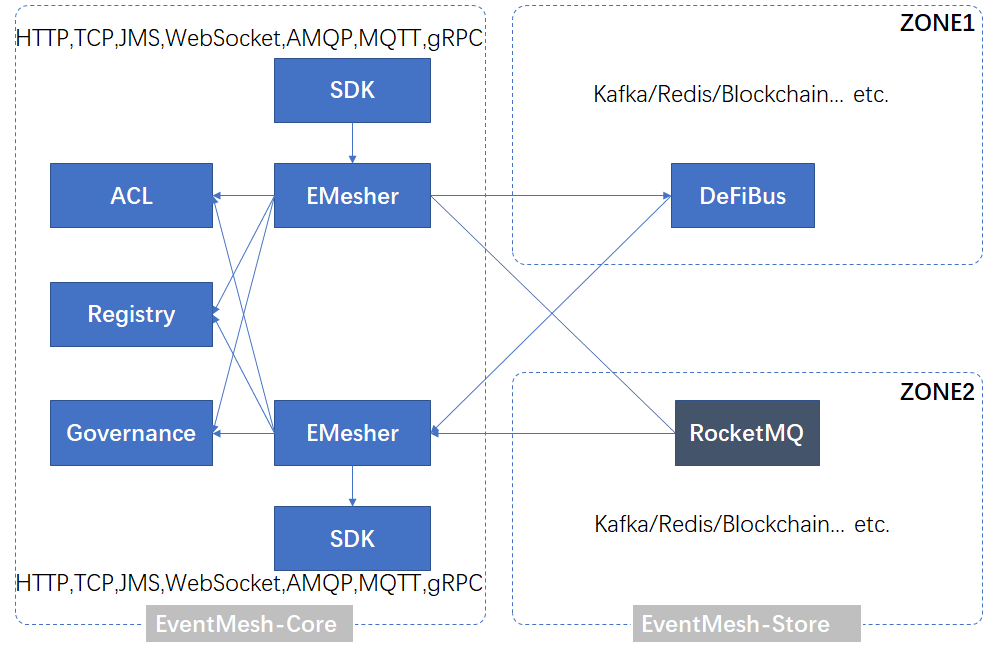
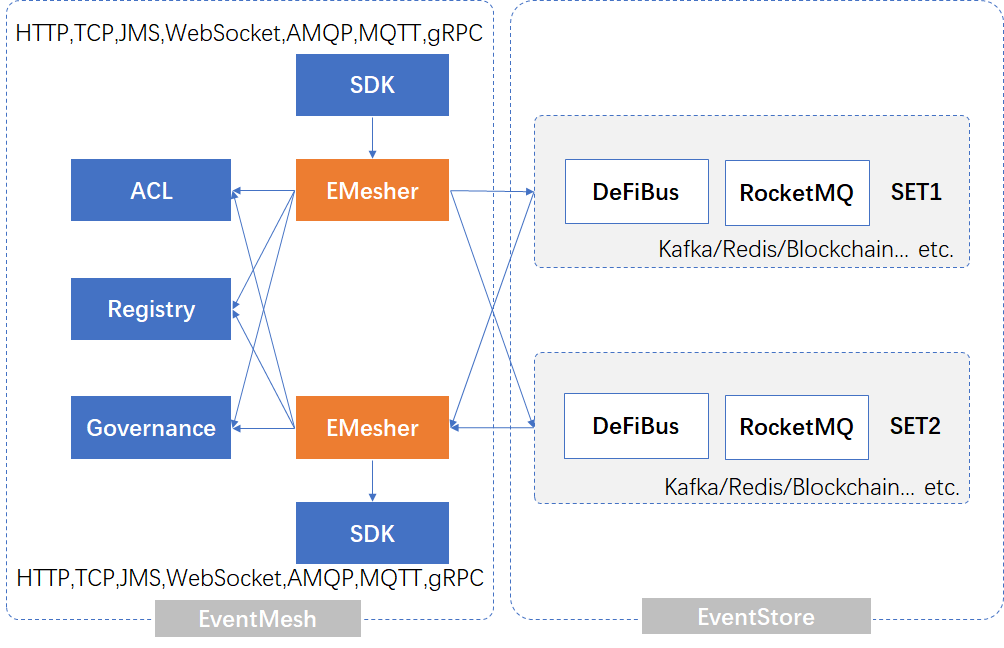
update eventmesh discriptions

diff --git a/README.zh-CN.md b/README.zh-CN.md
@@ -7,7 +7,13 @@
 该图显示了Event Mesh相对于应用程序框架中其他类似技术(例如Service Mesh)的定位.
 ![architecture1](docs/images/eventmesh-define.png)
 
-Event Mesh是一个动态的插件式云原生基础服务层，用于分离应用程序和中间件层。它提供了灵活，可靠和快速的事件分发，并且可以进行管理
+EventMesh的概览:
+![architecture1](docs/images/eventmesh-overview.png)
+
+EventMesh的功能全景:
+![architecture1](docs/images/eventmesh-landscape.png)
+
+Event Mesh是一个动态的插件式云原生基础服务层，用于分离应用程序和中间件层。它提供了灵活，可靠和快速的事件分发，并且可以进行管理，
 下图显示了Event Mesh的体系结构:
 ![architecture2](docs/images/eventmesh-arch.png)
 
@@ -19,7 +25,7 @@ Event Mesh的一般功能:
 * 云原生
 
 依赖部件：
-* defibus：具有低延迟，高性能和可靠性，和灵活可伸缩性的分布式消息传递平台 [DefiBus](https://github.com/WeBankFinTech/DeFiBus)
+* DeFiBus：具有低延迟，高性能和可靠性，和灵活可伸缩性的分布式消息传递平台 [DeFiBus](https://github.com/WeBankFinTech/DeFiBus)
 
 关键部件：
 * eventmesh-emesher：一种中间件，用于在事件产生者和使用者之间传输事件，支持云原生应用程序和微服务
@@ -27,8 +33,8 @@ Event Mesh的一般功能:
 * eventmesh-registry：自动在连接到单独事件网格器的应用程序和服务之间路由事件, 管理emesher
 
 ## 快速开始
-1. 构建并部署eventmesh-store([DefiBus](https://github.com/WeBankFinTech/DeFiBus))
-   请参见说明['eventmesh-store quickstart.zh-CN'](docs/cn/instructions/eventmesh-store-quickstart.zh-CN.md)
+1. 构建并部署event-store([DeFiBus](https://github.com/WeBankFinTech/DeFiBus))
+   请参见说明['event-store quickstart.zh-CN'](docs/cn/instructions/eventmesh-store-quickstart.zh-CN.md)
 2. 构建并部署eventmesh-emesher，请参见说明['eventmesh-emesher quickstart.zh-CN'](docs/cn/instructions/eventmesh-emesher-quickstart.zh-CN.md)
 3. 运行eventmesh-sdk-java演示，请参见说明['eventmesh-sdk-java quickstart.zh-CN'](docs/cn/instructions/eventmesh-sdk-java-quickstart.zh-CN.md)
 

diff --git a/README.md b/README.md
@@ -9,6 +9,12 @@
 This figure shows the positioning of the event mesh relative to other similar technologies (such as service mesh) in the application framework.
 ![architecture1](docs/images/eventmesh-define.png)
 
+Overview of EventMesh:
+![architecture1](docs/images/eventmesh-overview.png)
+
+Landscape of EventMesh:
+![architecture1](docs/images/eventmesh-landscape.png)
+
 Event Mesh is a dynamic plug-in cloud-native basic service layer used to decouple the application and middleware layer. It provides flexible, reliable and fast event distribution, and can be managed.
 This diagram shows the architecture of EventMesh:
 ![architecture2](docs/images/eventmesh-arch.png)
@@ -21,7 +27,7 @@ General functions of the event grid:
 * Cloud native
 
 Dependent components:
-* defibus : a distributed messaging platform with low latency, high performance and reliability, flexible scalability. [DefiBus](https://github.com/WeBankFinTech/DeFiBus)
+* DeFiBus : a distributed messaging platform with low latency, high performance and reliability, flexible scalability. [DeFiBus](https://github.com/WeBankFinTech/DeFiBus)
 
 Key components:
 * eventmesh-emesher : an middleware to transmit events between event producers and consumers, support cloud native apps and microservices
@@ -29,8 +35,8 @@ Key components:
 * eventmesh-registry : automatically routes events between applications and services connected to seperate event meshers, manage eventmesh-emesher
 
 ## Quick Start
-1. Build and deploy eventmesh-store([DefiBus](https://github.com/WeBankFinTech/DeFiBus)), 
-   see instruction ['eventmesh-store quickstart'](docs/en/instructions/eventmesh-store-quickstart.md).
+1. Build and deploy event-store([DeFiBus](https://github.com/WeBankFinTech/DeFiBus)), 
+   see instruction ['event-store quickstart'](docs/en/instructions/eventmesh-store-quickstart.md).
 2. Build and deploy eventmesh-emesher, see instruction ['eventmesh-emesher quickstart'](docs/en/instructions/eventmesh-emesher-quickstart.md).
 3. Run eventmesh-sdk-java demo, see instruction ['eventmesh-sdk-java quickstart'](docs/en/instructions/eventmesh-sdk-java-quickstart.md). 
 
